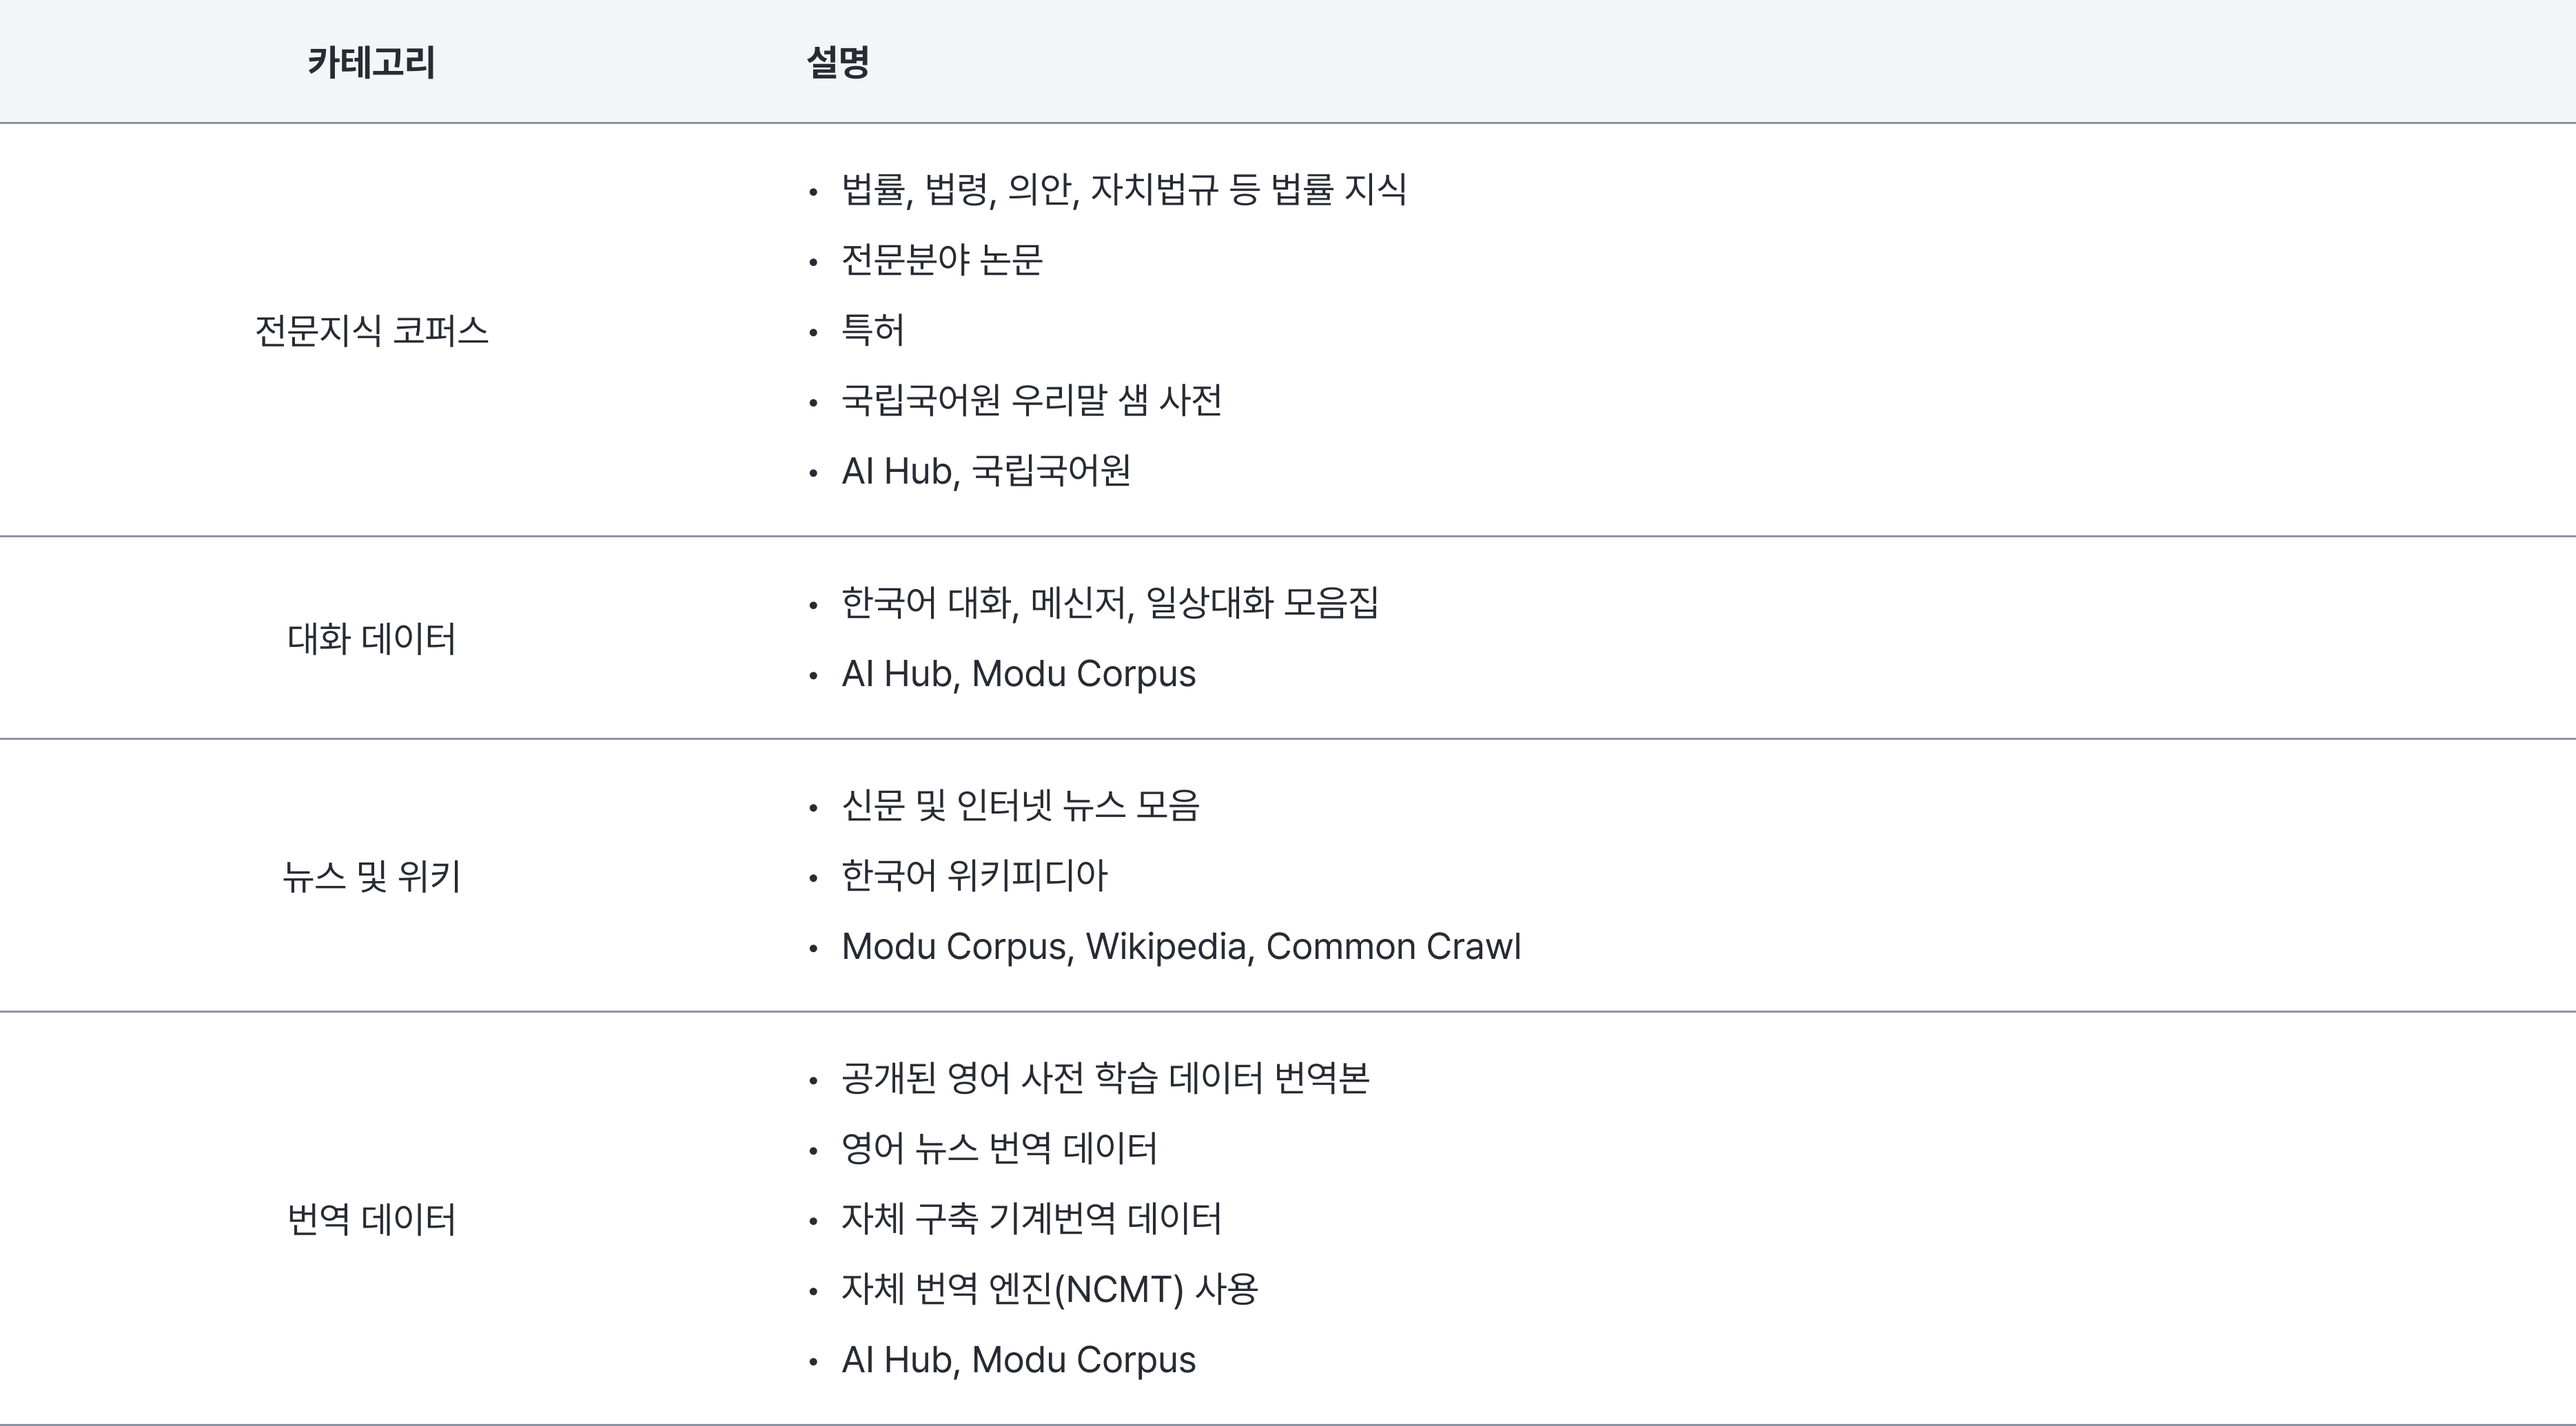
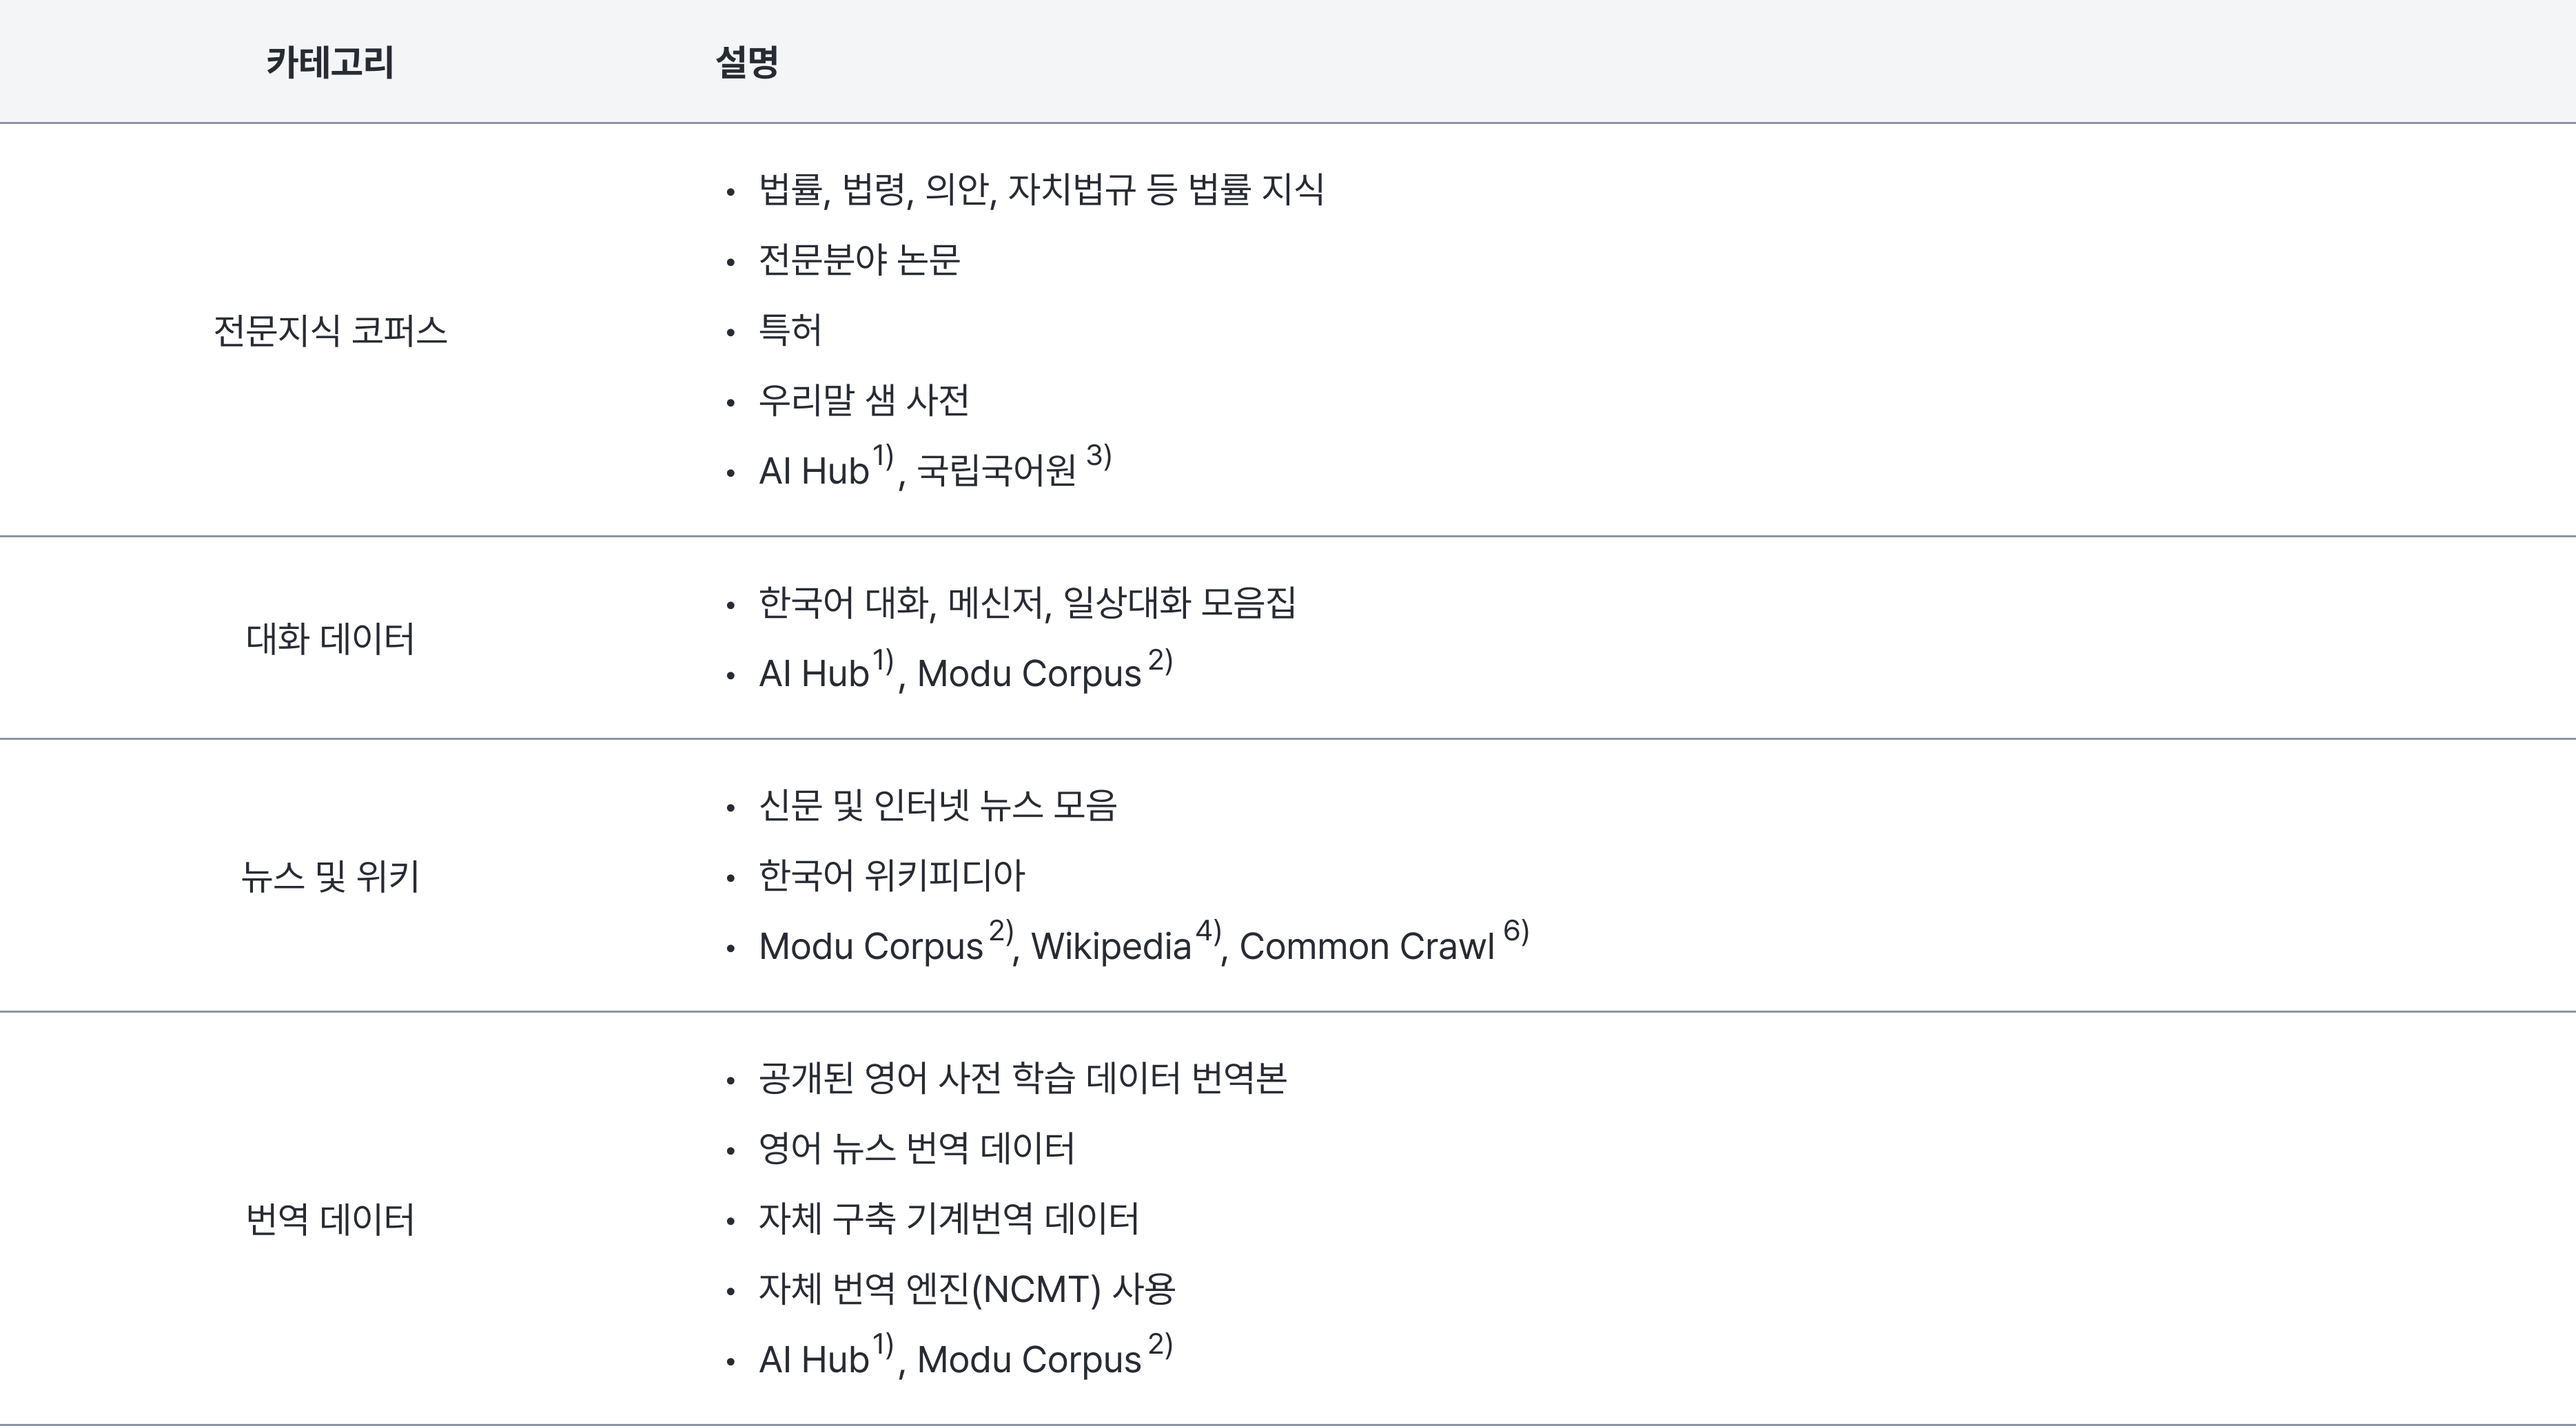
VARCO LLM Details 내용 수정 내용 적용 및 메뉴 포커스 버그 픽스

diff --git a/pages/varco_llm_detail.md b/pages/varco_llm_detail.md
@@ -82,6 +82,23 @@ hide: true
     margin-left: 2.5rem;
     color: var(--gray700) !important;
   }
+  .llm-detail-footnote {
+    margin: 0 0 50px;
+    padding-left: 30px;
+    list-style: none;
+  }
+  .llm-detail-footnote li {
+    position: relative;
+    padding-left: 22px;
+  }
+  .llm-detail-footnote li span {
+    position: absolute;
+    left: 0;
+    top: 0;
+  }
+  .llm-detail-footnote .footnote-link {
+    color: var(--gray700);
+  }
 </style>
 <script>
   window.onload = function() {
@@ -108,6 +125,15 @@ hide: true
 
 ![]({{"/assets/img/renewal/data_details.png"| relative_url}})
 {:.post_img .data_detail_img}
+
+<ol class="llm-detail-footnote" >
+    <li><span>1)</span> AI Hub (<a class="footnote-link" href="https://aihub.or.kr/">https://aihub.or.kr/</a>)</li>
+    <li><span>2)</span> Modu Corpus (<a class="footnote-link" href="https://corpus.korean.go.kr/">https://corpus.korean.go.kr/</a>)</li>
+    <li><span>3)</span> 국립국어원 (<a class="footnote-link" href="https://opendict.korean.go.kr/main">https://opendict.korean.go.kr/main</a>)</li>
+    <li><span>4)</span> Wikipedia (<a class="footnote-link" href="https://www.wikipedia.org/">https://www.wikipedia.org/</a>)</li>
+    <li><span>5)</span> 영어 사전 학습 데이터 번역본 (<a class="footnote-link" href="https://github.com/EleutherAI/the-pile">https://github.com/EleutherAI/the-pile</a>)</li>
+    <li><span>6)</span> Common Crawl (<a class="footnote-link" href="https://commoncrawl.org/">https://commoncrawl.org/</a>)</li>
+</ol>
 
 ### Instruction Tuning Datasets
 
